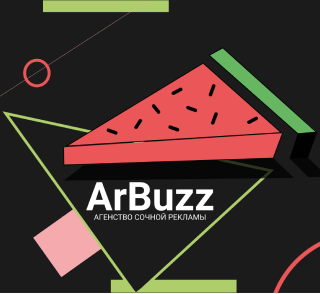
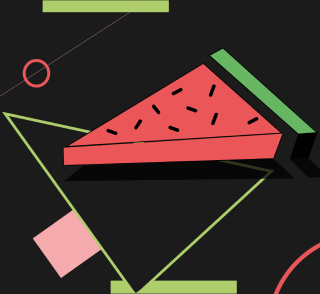
fixed bug for arbuz

diff --git a/arbuzz/style.css b/arbuzz/style.css
@@ -86,28 +86,32 @@ body {
       right: 0;
       z-index: 10; }
   .socials .mail {
-    background: url("./files/images/icons/mail.png") no-repeat;
+    background: url("./files/images/icons/mail.svg") no-repeat;
     width: 25px;
     background-size: contain;
     background-position: center; }
   .socials .telegram {
-    background: url("./files/images/icons/telegram.png") no-repeat;
+    background: url("./files/images/icons/telegram.svg") no-repeat;
     width: 20px;
     background-size: contain;
     background-position: center; }
   .socials .moon {
-    background: url("./files/images/icons/moon.png") no-repeat;
+    background: url("./files/images/icons/moon.svg") no-repeat;
     background-position: center;
     background-size: contain; }
 
 .brand {
-  background: url("./files/images/mobile.jpg") no-repeat;
+  background: url("./files/images/mobile.png") no-repeat;
   background-size: cover;
   background-position: center;
-  padding-bottom: 92%; }
+  padding-bottom: 92%;
+  position: relative; }
   .brand img {
     display: block;
-    width: 100%; }
+    width: 39%;
+    position: absolute;
+    left: 28%;
+    top: 63%; }
   .brand img:last-child {
     display: none; }
 
@@ -152,7 +156,7 @@ body {
       width: 22px;
       height: 22px;
       display: inline-block;
-      background: url("./files/images/icons/plus.png") no-repeat;
+      background: url("./files/images/icons/plus.svg") no-repeat;
       margin-bottom: 12px; }
     .service__text p {
       font-size: 14px;
@@ -264,14 +268,15 @@ body {
       height: 26px;
       z-index: 40;
       position: absolute;
-      bottom: -50px; }
+      bottom: -50px;
+      cursor: pointer; }
     .reviews__wrap .prevB {
-      background: url("./files/images/icons/prevr.png") no-repeat;
+      background: url("./files/images/icons/prevr.svg") no-repeat;
       background-size: cover;
       background-position: center;
       left: calc(50% - 30px); }
     .reviews__wrap .nextB {
-      background: url("./files/images/icons/nextr.png") no-repeat;
+      background: url("./files/images/icons/nextr.svg") no-repeat;
       background-size: cover;
       background-position: center;
       right: calc(50% - 30px); }
@@ -286,7 +291,7 @@ body {
     position: absolute;
     bottom: 0;
     right: 0;
-    background: url("./files/images/icons/pal.png");
+    background: url("./files/images/icons/pal.svg");
     background-size: contain; }
   .review::after {
     content: '';
@@ -349,7 +354,7 @@ body {
       display: block;
       width: 100px;
       height: 10px;
-      background: url("./files/images/icons/palG.png");
+      background: url("./files/images/icons/palG.svg");
       background-size: contain;
       position: absolute;
       left: 0;
@@ -363,7 +368,8 @@ body {
   .feedback .form select {
     font-size: 14px;
     line-height: 149%;
-    color: #C4C4C4; }
+    color: #C4C4C4;
+    -webkit-appearance: none; }
     .feedback .form select option:checked {
       color: #F85453; }
   .feedback .form__input {
@@ -372,7 +378,7 @@ body {
   .feedback .form__input input, .feedback .form select {
     width: 100%;
     height: 41px;
-    padding: 10px;
+    padding: 0 10px;
     outline: none;
     border: 1px solid #C4C4C4;
     border-radius: 4px;
@@ -458,15 +464,15 @@ body {
     .dark .header .header__logo img:last-child {
       display: block; }
     .dark .header .socials .mail {
-      background: url("./files/images/icons/mailW.png") no-repeat;
+      background: url("./files/images/icons/mailW.svg") no-repeat;
       background-size: contain;
       background-position: center; }
     .dark .header .socials .telegram {
-      background: url("./files/images/icons/telegramW.png") no-repeat;
+      background: url("./files/images/icons/telegramW.svg") no-repeat;
       background-size: contain;
       background-position: center; }
     .dark .header .socials .moon {
-      background: url("./files/images/icons/moonW.png") no-repeat;
+      background: url("./files/images/icons/moonW.svg") no-repeat;
       background-size: contain;
       background-position: center; }
   .dark .title {
@@ -481,7 +487,7 @@ body {
     .dark .service .service__text p {
       color: #fff; }
     .dark .service .service__text .close-btn {
-      background: url("./files/images/icons/plusW.png"); }
+      background: url("./files/images/icons/plusW.svg"); }
   .dark .block-1 {
     background: #01190E; }
     .dark .block-1 .service__text {
@@ -505,7 +511,7 @@ body {
   .dark .review .review__subscribe {
     color: #D4D4D4; }
   .dark .review::before {
-    background: url("./files/images/icons/palW.png");
+    background: url("./files/images/icons/palW.svg");
     background-size: contain; }
   .dark .feedback .feedback__text {
     color: #BFBFBF;
@@ -532,6 +538,10 @@ body {
     background: url("./files/images/mobileB.png") no-repeat;
     background-size: cover;
     background-position: center; }
+    .dark .brand img:first-child {
+      display: none; }
+    .dark .brand img:last-child {
+      display: block; }
   .dark .block-1 .service__right {
     background-image: url("./files/images/block-1B.png"); }
   .dark .block-2 .service__right {
@@ -585,10 +595,17 @@ body {
     .socials .moon:hover {
       cursor: pointer; }
   .brand {
-    background-image: url("./files/images/Mask.jpg");
+    background-image: url("./files/images/Mask.png");
     padding-bottom: 51%; }
+    .brand img {
+      width: 25%;
+      position: absolute;
+      left: 36%;
+      top: 58%; }
   .dark .brand {
-    background-image: url("./files/images/MaskB.jpg"); } }
+    background-image: url("./files/images/MaskB.png"); }
+    .dark .brand img {
+      top: 64%; } }
 
 @media screen and (min-width: 996px) {
   .services {
@@ -608,8 +625,7 @@ body {
     width: 996px;
     height: 512px;
     margin: 0 auto 87px auto;
-    background: #FAFAFA;
-    border: 1px solid #F0F0F0; }
+    background: #FAFAFA; }
     .service__info {
       -webkit-box-ordinal-group: 1;
       -ms-flex-order: 0;
@@ -764,7 +780,7 @@ body {
       height: 8px;
       position: absolute; }
     .review::after {
-      width: 305px;
+      width: 290px;
       height: 6px; }
     .review__video {
       height: 218px; }
@@ -785,17 +801,16 @@ body {
       font-size: 16px;
       line-height: 19px; }
   .dark .reviews__wrap .prevB {
-    background-image: url("./files/images/icons/prevG.png"); }
+    background-image: url("./files/images/icons/prevG.svg"); }
   .dark .reviews__wrap .nextB {
-    background-image: url("./files/images/icons/nextG.png"); }
+    background-image: url("./files/images/icons/nextG.svg"); }
   .feedback {
-    padding-top: 170px;
     padding-bottom: 85px; }
     .feedback .title {
       text-align: left;
       margin-bottom: 36px; }
       .feedback .title::before {
-        width: 210px;
+        width: 220px;
         height: 21px;
         top: -25px; }
     .feedback__text {
@@ -815,7 +830,7 @@ body {
       .feedback .form__input input, .feedback .form select {
         width: 285px;
         height: 55px;
-        padding: 16px 14px 15px;
+        padding: 0 16px;
         border-radius: 5px;
         background: #fff;
         font-size: 16px;

diff --git a/arbuzz/index.html b/arbuzz/index.html
@@ -5,6 +5,7 @@
 	<meta charset="UTF-8">
 	<meta name="viewport" content="width=device-width, user-scalable=no, initial-scale=1.0, maximum-scale=1.0, minimum-scale=1.0">
 	<meta http-equiv="X-UA-Compatible" content="ie=edge">
+	<link rel="shortcut icon" href="./files/images/favicon_2.png" type="image/x-icon">
 	<link rel="stylesheet" href="./files/libs/slick/slick.css">
 	<link rel="stylesheet" href="./files/libs/slick/slick-theme.css">
 	<link rel="stylesheet" href="./style.css">
@@ -18,8 +19,8 @@
 	<div class="container">
 		<div class="header__line">
 			<a href="./" class="header__logo">
-				<img src="./files/images/logoArBuzz.png" alt="ArBuzz">
-				<img src="./files/images/icons/logoW.png" alt="ArBuzz">
+				<img src="./files/images/icons/logo.svg" alt="ArBuzz">
+				<img src="./files/images/icons/logoW.svg" alt="ArBuzz">
 			</a>
 			<div class="header__socials socials">
 				<a href="mailto:info@melon-moscow.ru" target="_blank" class="socials__item mail">
@@ -35,7 +36,8 @@
 </header>
 
 <section class="brand">
-
+	<img src="./files/images/icons/logoB.svg" alt="">
+	<img src="./files/images/icons/logoBW.svg" alt="">
 </section>
 
 <section class="services">
@@ -58,7 +60,7 @@
 				<h3 class="service__name">Сервис для рекламодателей и брендов.</h3>
 				<p class="service__description">Мы помогаем разместить рекламу<br> на онлайн-трансляциях.</p>
 				<div class="service__more-btn more-btn">
-					<img src="./files/images/icons/plus1.png" alt="">
+					<img src="./files/images/icons/plus1.svg" alt="">
 					<span class="more-btn__text">Подробнее</span>
 				</div>
 			</div>
@@ -84,7 +86,7 @@
 					Самый простой способ начать монетизировать свой контент. Показывай своей аудитории только релевантную рекламу.
 				</p>
 				<div class="service__more-btn more-btn">
-					<img src="./files/images/icons/plus2.png" alt="">
+					<img src="./files/images/icons/plus2.svg" alt="">
 					<span class="more-btn__text">Подробнее</span>
 				</div>
 			</div>
@@ -135,7 +137,7 @@
 					Онлайн-заказ продуктов, гейминг и стриминговые сервисы летят в космос
 				</p>
 				<div class="service__more-btn more-btn">
-					<img src="./files/images/icons/plus3.png" alt="">
+					<img src="./files/images/icons/plus3.svg" alt="">
 					<span class="more-btn__text">Подробнее</span>
 				</div>
 			</div>
@@ -224,13 +226,13 @@
 				<input type="text" placeholder="Ваше имя" name="name">
 			</div>
 			<div class="form__input">
-				<input type="tel" placeholder="Номер телефона" name="phone" required>
+				<input type="tel" placeholder="Номер телефона" name="phone"  id="phone" required>
 			</div>
 			<div class="form__input">
-				<input type="email" placeholder="Email" name="email" required>
+				<input type="email" placeholder="Email" name="email">
 			</div>
 			<div class="form__input">
-				<select id="" name="select" required>
+				<select id="" name="select">
 					<option value="">Тип: я стример/рекламодатель</option>
 					<option value="">Тип: я стример/рекламодатель</option>
 					<option value="">Тип: я стример/рекламодатель</option>
@@ -238,7 +240,7 @@
 				</select>
 			</div>
 			<div class="form__input">
-				<input type="text" placeholder="Доп. инфо" name="other" required>
+				<input type="text" placeholder="Доп. инфо" name="other">
 			</div>
 			<button class="form__send" id="submit">Отправить</button>
 			<div class="form__privacy">

diff --git a/arbuzz/main.js b/arbuzz/main.js
@@ -72,4 +72,5 @@ jQuery(function($) {
 	});
 	// Валдация формы END
 
+	$("#phone").mask("+7(999) 999-99-99");
 });
